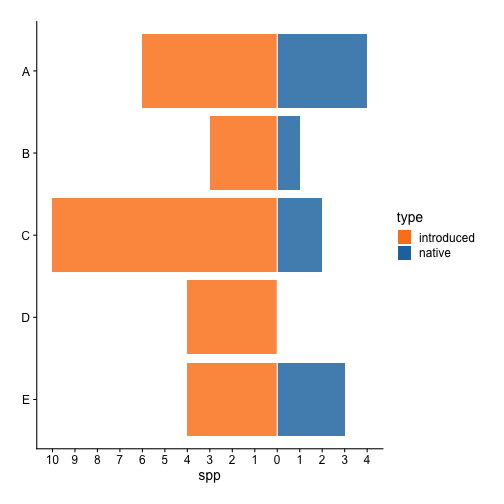
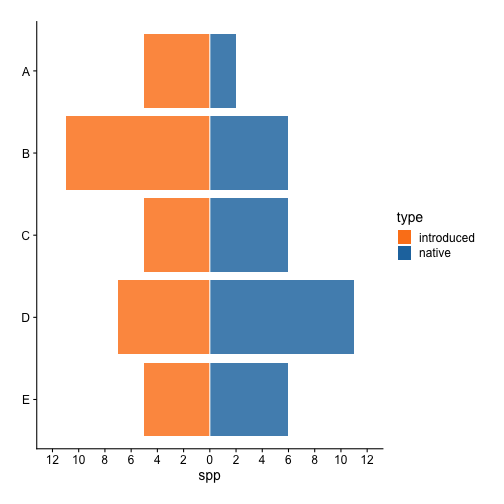
update 04-04-xxx

diff --git a/manuscript/04-04-likertplot.md b/manuscript/04-04-likertplot.md
@@ -51,12 +51,12 @@ head(df)
 A>
 ```
   item slope       type spp sppInv
-1    A North     native   4      4
-2    B North     native   1      1
-3    C North     native   2      2
-4    D North     native   0      0
-5    E North     native   3      3
-6    A North introduced   6     -6
+1    A North     native   2      2
+2    B North     native   6      6
+3    C North     native   6      6
+4    D North     native  11     11
+5    E North     native   6      6
+6    A North introduced   5     -5
 ```
 A>
 ```r
@@ -65,12 +65,12 @@ tail(df)
 A>
 ```
    item slope       type spp sppInv
-15    E South     native   2      2
-16    A South introduced   3     -3
-17    B South introduced   4     -4
-18    C South introduced   5     -5
-19    D South introduced   5     -5
-20    E South introduced   3     -3
+15    E South     native   5      5
+16    A South introduced   9     -9
+17    B South introduced   6     -6
+18    C South introduced   7     -7
+19    D South introduced   3     -3
+20    E South introduced   5     -5
 ```
 
 Let's focus on North for now and ignore South. 
@@ -118,7 +118,8 @@ library(tidyr)
 df = ab3 %>% gather(opinion, pct, -Country)
 lvls = unique(df$opinion)
 plt = mk_likertplot(df)
-plt("pct", "Country", fillby = "opinion", fillby_lvls = lvls, x_as_pct = T) %>%
+plt("pct", "Country", fillby = "opinion", fillby_lvls = lvls, x_as_pct = T,
+    font_size = 9) %>%
     add_labs(xlab = NULL, title = "Confidence for 12 arabic countries' economy")
 ```
 
